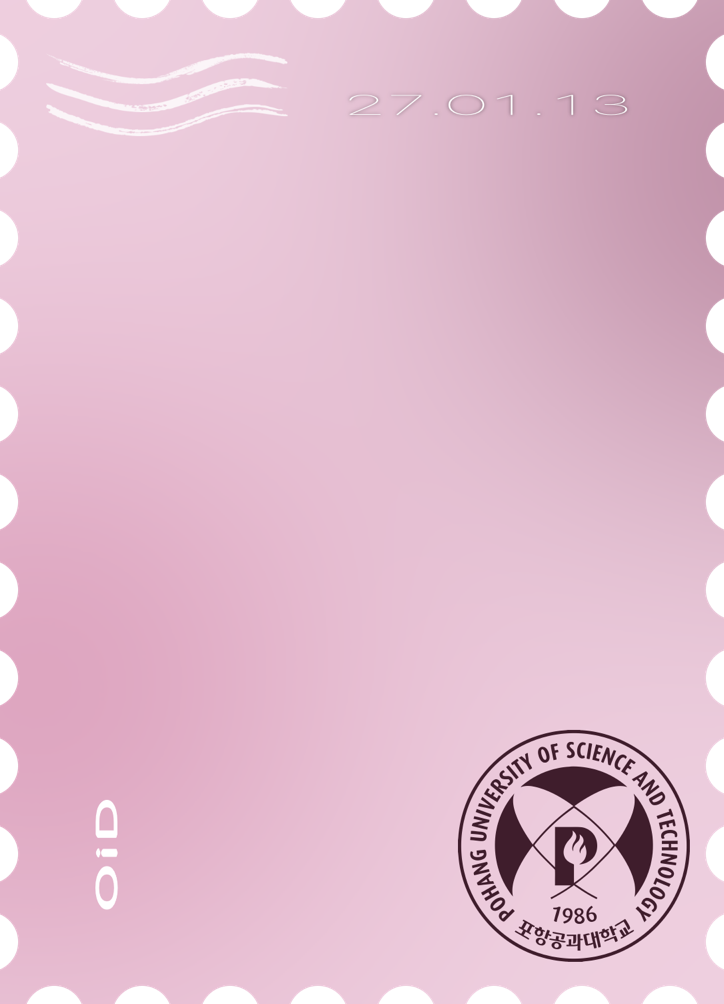
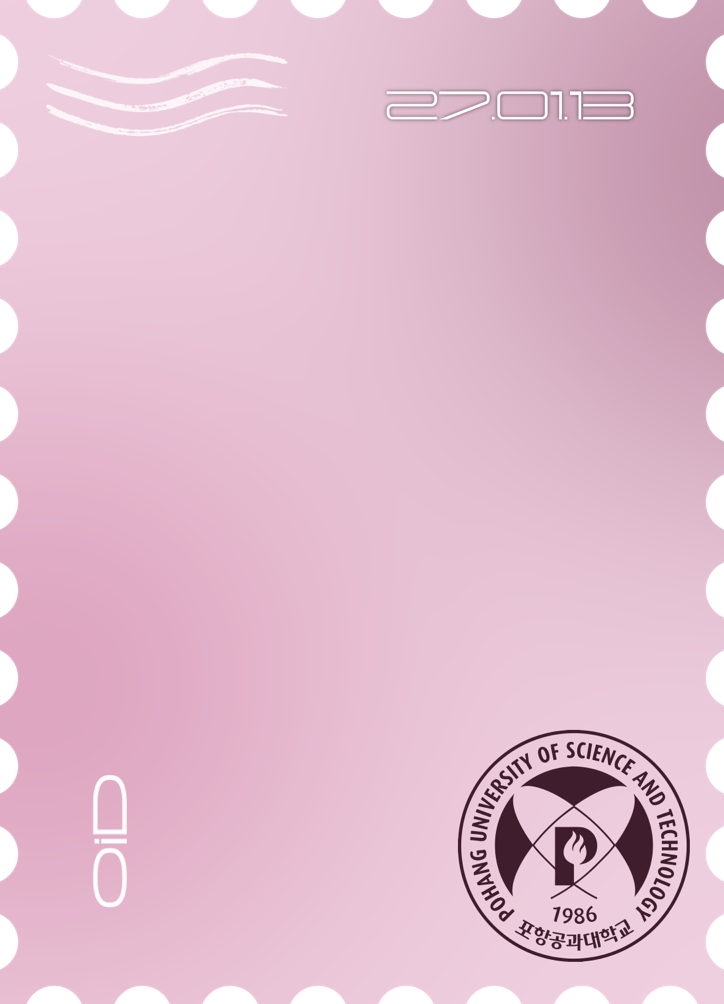
[fix] 엽서에 피그마 글자 에셋 적용

Changed region(s): [[0.5166, 0.0926, 0.8812, 0.1235], [0.1215, 0.7719, 0.1823, 0.8954]]

diff --git a/apps/ios/OiDonation/Features/Profile/Creation/OiPostcardArtwork.swift b/apps/ios/OiDonation/Features/Profile/Creation/OiPostcardArtwork.swift
@@ -45,20 +45,12 @@ struct OiPostcardFront<Artwork: View>: View {
                             .offset(x: 23, y: CGFloat(26 + index * 13))
                             .accessibilityHidden(true)
                     }
-                    Text("OiD").font(OiPostcardTypography.mark).tracking(1.12)
-                        .foregroundStyle(.white).textRenderer(OiPostcardLetteringStroke()).fixedSize()
-                        .scaleEffect(x: 2.2, y: 1).rotationEffect(.degrees(-90))
-                        .frame(width: 21, height: 58).offset(x: 43, y: 396)
-                        .accessibilityHidden(true)
+                    OiPostcardDecorations(stamp: nil, logo: "white")
                 }
-                if !date.isEmpty {
-                    Text(date).font(OiPostcardTypography.date)
-                        .foregroundStyle(.white).lineLimit(1).fixedSize()
-                        .scaleEffect(x: 2.45, y: 1, anchor: .trailing)
-                        .shadow(color: .black.opacity(0.6), radius: 1)
-                        .frame(width: 144, height: 21, alignment: .trailing).offset(x: 173, y: 42)
-                        .accessibilityLabel("작성 날짜 \(date)")
-                }
+                OiPostcardDateArtwork(value: date)
+                    .shadow(color: .black.opacity(0.6), radius: 1)
+                    .frame(width: 170, height: 14, alignment: .bottomTrailing)
+                    .offset(x: 147, y: 45.68)
                 Image("OiPostcardSeal").renderingMode(.template).resizable()
                     .foregroundStyle(Color(oiRGB: OiPostcardInk.color(backgroundStyle?.visiblePaperColor ?? first)))
                     .frame(width: design?.postcardLayoutVersion == 2 ? 98 : 116,
@@ -68,6 +60,39 @@ struct OiPostcardFront<Artwork: View>: View {
                     .accessibilityHidden(true)
             }
         }.frame(width: 362, height: 502).mask(OiPostcardPaper()).dynamicTypeSize(.medium)
+    }
+}
+
+/// Uses the Figma date outlines at their actual ink widths, including the narrow 1 and period.
+private struct OiPostcardDateArtwork: View {
+    let value: String
+
+    private static let widths: [Character: CGFloat] = [
+        "0": 25.2, "1": 5.684, "2": 25.214, "3": 25.214, "4": 24.416,
+        "5": 25.214, "6": 25.214, "7": 25.2, "8": 25.2, "9": 25.214, ".": 1.4,
+    ]
+
+    var body: some View {
+        let characters = Array(value)
+        if characters.count == 8, characters[2] == ".", characters[5] == ".",
+           characters.filter({ $0 != "." }).count == 6,
+           characters.allSatisfy({ Self.widths[$0] != nil }) {
+            HStack(alignment: .bottom, spacing: 1.254) {
+                ForEach(characters.indices, id: \.self) { index in
+                    let character = characters[index]
+                    if let width = Self.widths[character] {
+                        let height: CGFloat = character == "." ? 1.4 : character == "5" ? 14.014 : 14
+                        Image("OiPostcardDate-\(character == "." ? "dot" : String(character))")
+                            .resizable()
+                            // Keep the SVG canvas at its exported size. Only the ink advances the next image.
+                            .frame(width: ceil(width), height: ceil(height))
+                            .frame(width: width, height: height, alignment: .topLeading)
+                    }
+                }
+            }
+            .accessibilityElement(children: .ignore)
+            .accessibilityLabel("작성 날짜 \(value)")
+        }
     }
 }
 
@@ -106,9 +131,11 @@ struct OiPostcardBack: View {
                     ScrollView { letter.fixedSize(horizontal: false, vertical: true) }.scrollIndicators(.hidden)
                 } else { letter.minimumScaleFactor(0.6) }
             }.frame(width: 292, height: 389, alignment: .topLeading).offset(x: 35, y: 30)
-            Text("FROM").font(OiPostcardTypography.from).opacity(0.98)
-                .frame(height: 10)
-                .offset(x: 35, y: 443)
+            Image("OiPostcardFrom").renderingMode(.template).resizable()
+                .foregroundStyle(textInk)
+                .frame(width: 31, height: 10)
+                .offset(x: 35, y: 444)
+                .accessibilityLabel("FROM")
             HStack(spacing: 8) {
                 Text(author).font(OiPostcardTypography.author).tracking(0.24)
                     .layoutPriority(1)

diff --git a/apps/ios/OiDonationTests/OiFigmaFidelityVisualTests.swift b/apps/ios/OiDonationTests/OiFigmaFidelityVisualTests.swift
@@ -184,6 +184,23 @@ final class OiFigmaFidelityVisualTests: XCTestCase {
         value.card?.postcardLogo = "white"
         value.card?.postcardDate = date.addingTimeInterval(86_400)
         XCTAssertNotEqual(try front(), baseline, "The printed date must be part of the current postcard")
+
+        let glyphAssets = (0...9).map { "OiPostcardDate-\($0)" } + ["OiPostcardDate-dot", "OiPostcardFrom"]
+        for name in glyphAssets {
+            XCTAssertNotNil(UIImage(named: name), "Missing postcard vector asset: \(name)")
+        }
+        for (name, printedDate) in [
+            ("date-figma-reference", "26.10.24"),
+            ("date-other-digits", "38.05.29"),
+            ("date-wide-digits", "99.09.27"),
+        ] {
+            let image = try OiCardImageExport.render(OiPostcardFront(date: printedDate) {
+                Color(white: 0.3)
+            })
+            let png = try XCTUnwrap(image.pngData())
+            let attachment = XCTAttachment(data: png, uniformTypeIdentifier: "public.png")
+            attachment.name = name; attachment.lifetime = .keepAlways; add(attachment)
+        }
     }
 
     func testPostcardCustomGradientUsesFigmaFields() throws {
@@ -442,6 +459,7 @@ final class OiFigmaFidelityVisualTests: XCTestCase {
         value.card?.postcardBackground = .init(color: 0xE8EECF, preset: "lime")
         value.card?.backgroundPhoto = photo.pngData()
         value.card?.postcardStamp = 1
+        value.card?.postcardDate = Date(timeIntervalSince1970: 1_799_779_200)
         func render(_ style: OiDraftCustomization) throws -> Data {
             let renderer = ImageRenderer(content: OiDraftCardPreview(draft: Self.draft,
                 customization: style, portrait: portrait).frame(width: 362, height: 502))
@@ -450,9 +468,11 @@ final class OiFigmaFidelityVisualTests: XCTestCase {
         }
         for character in [false, true] {
             value.showsCharacter = character
-            value.card?.postcardLogo = nil
+            // An unset logo color means white. Use transparent ink for the unmarked reference.
+            value.card?.postcardLogoOpacity = 0
             let original = try renderedBitmap(render(value), size: CGSize(width: 362, height: 502))
             let before = try XCTUnwrap(original.data).bindMemory(to: UInt8.self, capacity: 362 * 502 * 4)
+            value.card?.postcardLogoOpacity = 1
             for logo in ["white", "black"] {
                 value.card?.postcardLogo = logo
                 let png = try render(value)

diff --git a/apps/ios/OiDonation/Features/Profile/Creation/OiPostcardTypography.swift b/apps/ios/OiDonation/Features/Profile/Creation/OiPostcardTypography.swift
@@ -37,14 +37,10 @@ enum OiPostcardTypography {
         return max(0, bodyLineHeight - lineHeight)
     }
 
-    // REATIC embedding permission is pending. Use system faces with matching metrics.
-    static let from = Font.system(size: 10, weight: .light).width(.condensed)
-    static let date = Font.system(size: 14, weight: .ultraLight, design: .rounded).width(.expanded).monospacedDigit()
-    static let mark = Font.system(size: 14, weight: .light, design: .rounded).width(.expanded)
     static let author = Font.custom("Paperlogy-4Regular", fixedSize: 12)
 }
 
-/// Figma 6635:10680 and 5912:11099 use a same-ink 0.4pt outside stroke.
+/// Figma 6635:10680 uses a same-ink 0.4pt outside stroke.
 struct OiPostcardLetteringStroke: TextRenderer {
     private static let offsets: [CGPoint] = (0..<8).map { direction in
         let angle = Double(direction) * .pi / 4
